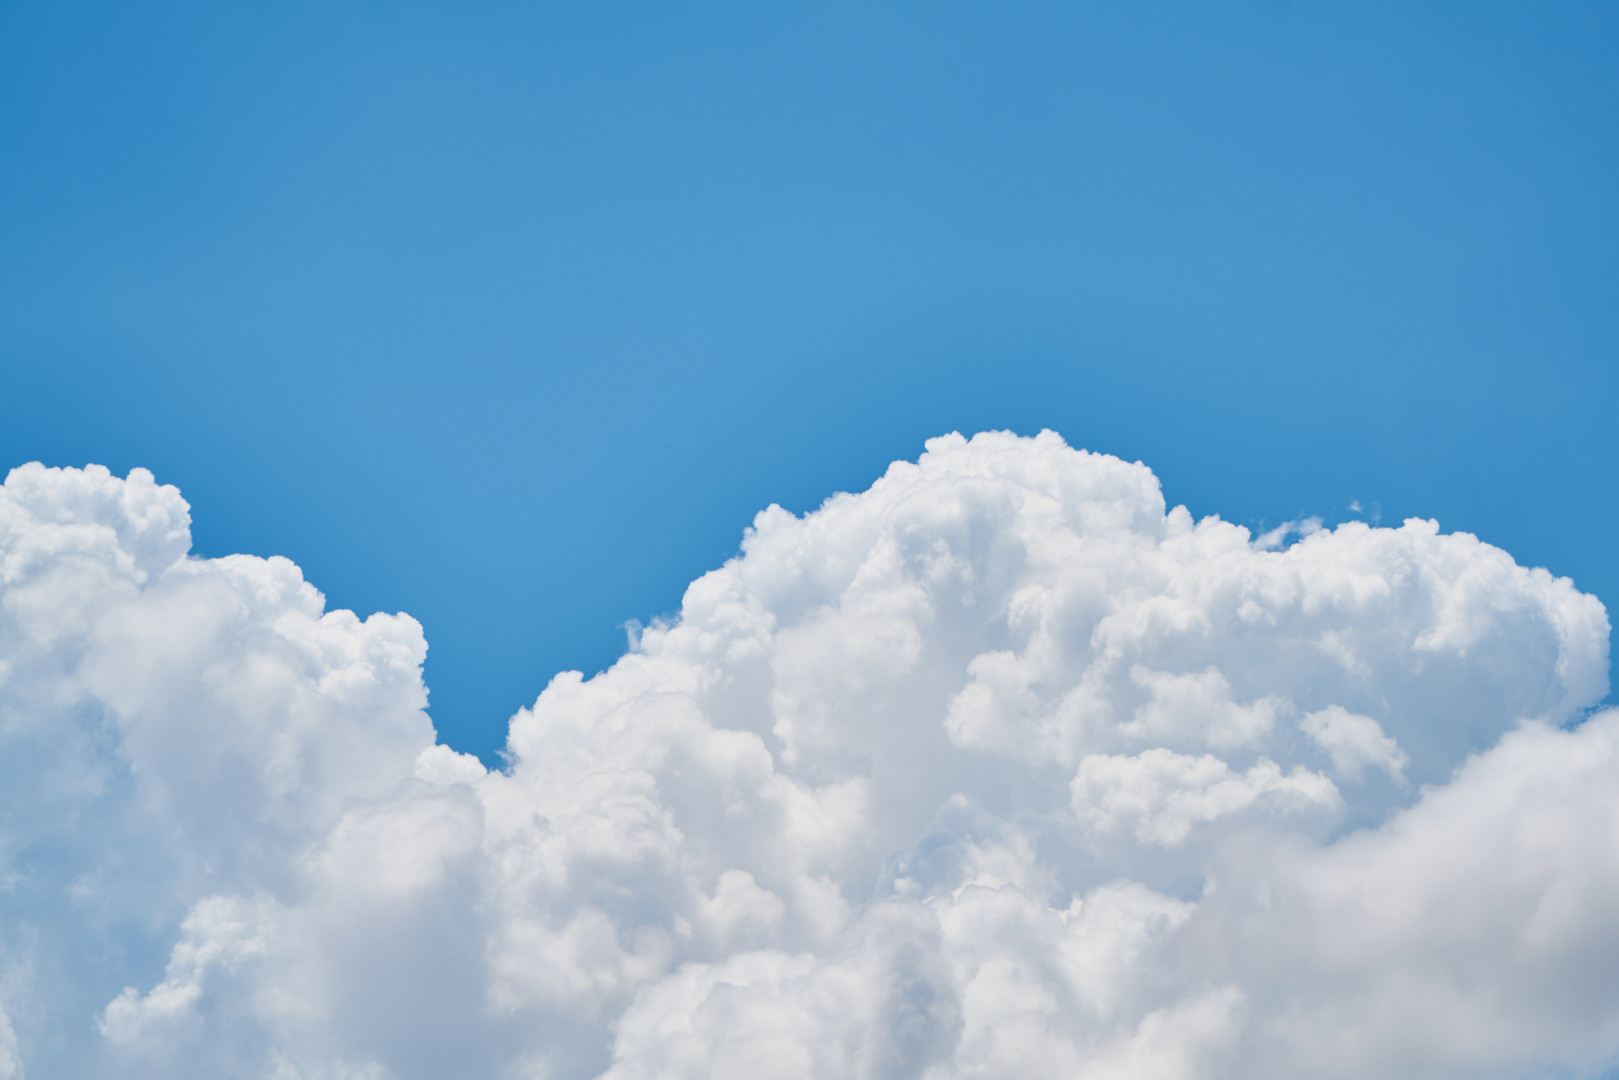
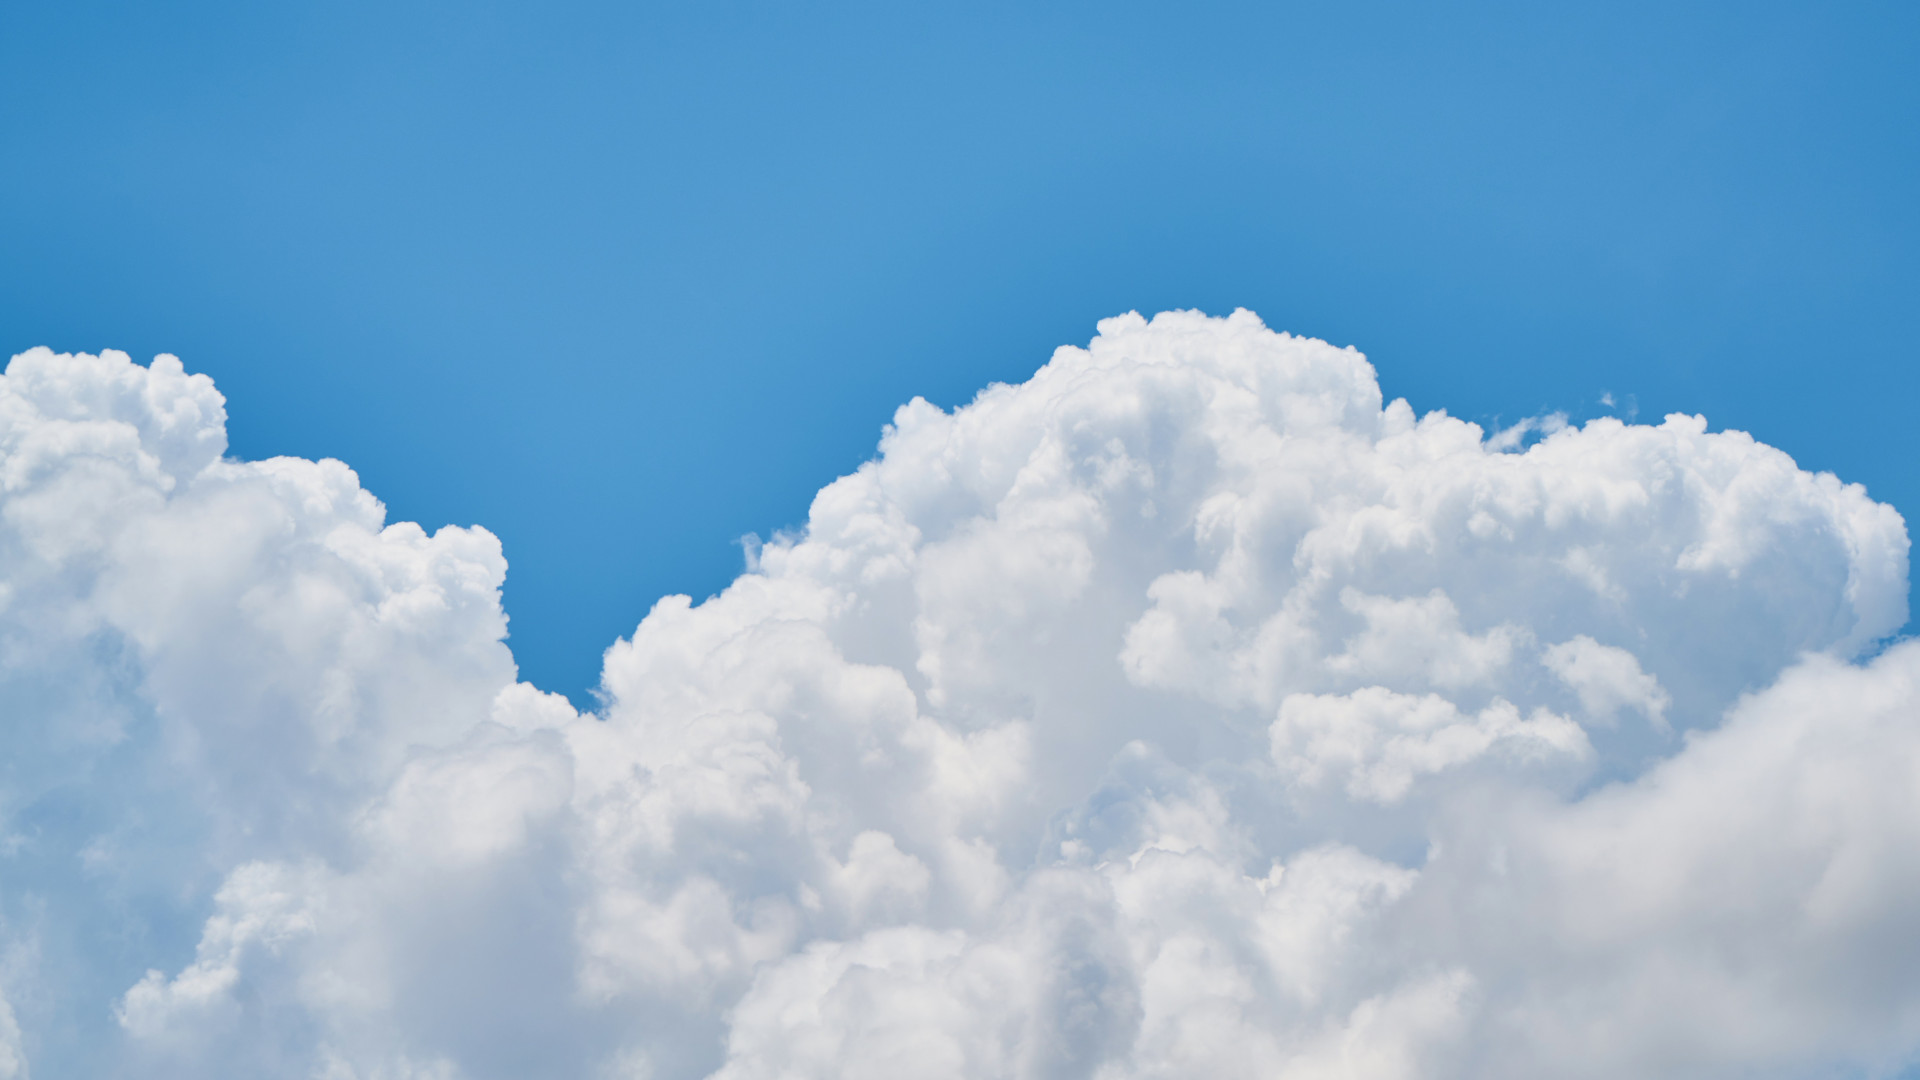
Improve image look (#630)

diff --git a/frontend-web/webclient/app/Login/Login.tsx b/frontend-web/webclient/app/Login/Login.tsx
@@ -25,10 +25,9 @@ function randImage() {
 }
 
 const FullPageImage = styled(Image)`
-    max-height: 100vh;
-    max-width: 100vw;
-    min-height: 100vh;
-    min-width: 100vw;
+    height: 100vh;
+    width: 100vw;
+    overflow: hidden;
 `;
 
 const inDevEnvironment = process.env.NODE_ENV === "development"
